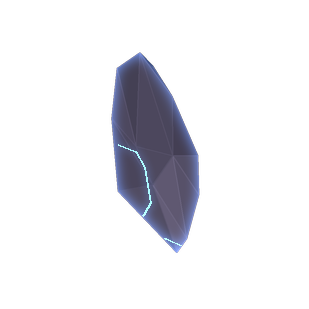
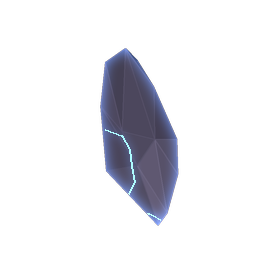
Main menu shrine: smaller and to the right (clear of the title and the party panel), a soft light shaft instead of a hard beam
Claude-Session: https://claude.ai/code/session_01XygewZTgx3ZFWTg4ffda8j

diff --git a/src/Hud.cpp b/src/Hud.cpp
@@ -1554,7 +1554,7 @@ float4 main(float4 pos : SV_POSITION, float4 col : COLOR0, float2 uv : TEXCOORD0
 			if (g_sGround) {
 				// THE SHRINE (Noah's picture): a round rune floor on a dark plain, a blue crystal turning and pulsing over
 				// it, broken rocks floating round it. All of it at one depth of the parallax, in the painting's pixels.
-				constexpr float kD = 0.6f, kCX = 1060.0f, kCY = 1185.0f, kS = 3.9f, kCos = 0.9563f, kSin = 0.2924f, kCrystalZ = 130.0f;
+				constexpr float kD = 0.6f, kCX = 1160.0f, kCY = 1190.0f, kS = 3.4f, kCos = 0.9563f, kSin = 0.2924f, kCrystalZ = 130.0f;
 				const float u = (cw * (1.04f + 0.03f * kD) * push) / 2560.0f;  // painting pixels -> screen
 				auto at = [&](float X, float Y, float Z) { return toScreen(kD, kCX + X * kS, kCY - (Z * kCos - Y * kSin) * kS); };
 				auto tex = [](ID3D11ShaderResourceView* t) { return ImTextureID(reinterpret_cast<std::uintptr_t>(t)); };
@@ -1578,22 +1578,22 @@ float4 main(float4 pos : SV_POSITION, float4 col : COLOR0, float2 uv : TEXCOORD0
 					fg->AddCircleFilled(p, 7.0f * u, IM_COL32(110, 190, 255, static_cast<int>(40 * front * fade)), 12);
 					fg->AddCircleFilled(p, 2.4f * u, IM_COL32(210, 240, 255, static_cast<int>(200 * front * fade)), 8);
 				}
-				// the light rising from the pool to the crystal
-				{
+				// the light rising from the pool to the crystal: a soft shaft (the round light stretched tall)
+				if (g_sSoft) {
 					const ImVec2 pool = at(0, 0, 0), top = at(0, 0, kCrystalZ);
-					const float  bw = (34 + 8 * pulse) * u * kS;
-					fg->AddRectFilledMultiColor({ pool.x - bw, top.y }, { pool.x + bw, pool.y }, IM_COL32(120, 200, 255, 0), IM_COL32(120, 200, 255, 0),
-						IM_COL32(120, 200, 255, static_cast<int>((40 + 30 * pulse) * fade)), IM_COL32(120, 200, 255, static_cast<int>((40 + 30 * pulse) * fade)));
-					fg->AddRectFilledMultiColor({ pool.x - bw * 0.35f, top.y }, { pool.x + bw * 0.35f, pool.y }, IM_COL32(200, 235, 255, static_cast<int>(30 * fade)), IM_COL32(200, 235, 255, static_cast<int>(30 * fade)),
-						IM_COL32(200, 235, 255, static_cast<int>((70 + 50 * pulse) * fade)), IM_COL32(200, 235, 255, static_cast<int>((70 + 50 * pulse) * fade)));
+					const ImVec2 mid{ pool.x, (pool.y + top.y) * 0.5f };
+					const float  len = (pool.y - top.y) * 1.25f, bw = (70 + 16 * pulse) * u * kS;
+					sprite(g_sSoft, mid, bw * 2.0f, len, 0, IM_COL32(110, 190, 255, static_cast<int>((70 + 40 * pulse) * fade)));
+					sprite(g_sSoft, mid, bw * 0.7f, len, 0, IM_COL32(210, 240, 255, static_cast<int>((80 + 60 * pulse) * fade)));
+					sprite(g_sSoft, pool, bw * 3.2f, bw * 1.0f, 0, IM_COL32(120, 200, 255, static_cast<int>((90 + 60 * pulse) * fade)));  // the pool's glow on the floor
 				}
 				// the rocks: each on its own orbit round the crystal, bobbing and slowly tumbling; the far ones behind it
 				struct Rock { float r, a0, z, speed, bob, ph, rot0, spin; };
 				static constexpr Rock kRocks[9] = { { 112, 0.0f, 150, 0.16f, 9, 0.0f, 0.3f, 0.10f }, { 120, 0.7f, 110, 0.16f, 11, 1.3f, -0.4f, -0.08f },
-					{ 104, 1.4f, 175, 0.16f, 8, 2.1f, 0.9f, 0.12f }, { 124, 2.1f, 125, 0.16f, 12, 0.7f, -0.8f, 0.07f }, { 110, 2.8f, 95, 0.16f, 10, 2.9f, 0.2f, -0.11f },
-					{ 116, 3.5f, 160, 0.16f, 9, 1.8f, 1.1f, 0.09f }, { 106, 4.2f, 120, 0.16f, 11, 0.4f, -0.2f, -0.06f }, { 92, 4.9f, 185, 0.16f, 7, 2.5f, 0.6f, 0.14f },
+					{ 104, 1.4f, 160, 0.16f, 8, 2.1f, 0.9f, 0.12f }, { 124, 2.1f, 125, 0.16f, 12, 0.7f, -0.8f, 0.07f }, { 110, 2.8f, 95, 0.16f, 10, 2.9f, 0.2f, -0.11f },
+					{ 116, 3.5f, 150, 0.16f, 9, 1.8f, 1.1f, 0.09f }, { 106, 4.2f, 120, 0.16f, 11, 0.4f, -0.2f, -0.06f }, { 92, 4.9f, 165, 0.16f, 7, 2.5f, 0.6f, 0.14f },
 					{ 98, 5.6f, 90, 0.16f, 10, 1.1f, -1.0f, -0.13f } };
-				static constexpr float kRockPx[9] = { 420, 468, 387, 485, 436, 413, 394, 309, 342 };
+				static constexpr float kRockPx[9] = { 375, 418, 346, 432, 389, 369, 351, 277, 306 };
 				struct Placed { int i; ImVec2 p; float depth, scale; };
 				std::array<Placed, 9> placed{};
 				for (int i = 0; i < 9; ++i) {

diff --git a/tools/menushrine.py b/tools/menushrine.py
@@ -21,8 +21,8 @@ from scipy.spatial import ConvexHull
 OUT = pathlib.Path(sys.argv[1] if len(sys.argv) > 1 else 'menushrine')
 OUT.mkdir(parents=True, exist_ok=True)
 W, H = 2560, 1440
-CX, CY = 1060.0, 1185.0          # the floor's centre on the painting
-S = 3.9                          # painting pixels per game unit
+CX, CY = 1160.0, 1190.0          # the floor's centre on the painting
+S = 3.4                          # painting pixels per game unit
 E = math.radians(17)             # how far we look down
 HORIZON = 800
 CRYSTAL_Z = 130.0
@@ -252,7 +252,7 @@ def crystal_sheet(frames=24, fw=448, fh=640):
         out = np.zeros((len(t), 4))
         out[:, :3] = np.clip(col[:, :3] + 60, 0, 255)
         out[:, 3] = 255
-        im = render(t, col, (fw, fh), 6.0, (fw / 2, fh * 0.56), outline=out)
+        im = render(t, col, (fw, fh), 5.3, (fw / 2, fh * 0.56), outline=out)
         # light inside it: a soft core
         a = np.asarray(im, np.float32)
         core = maskdraw(lambda d: d.ellipse([fw / 2 - 44, fh * 0.56 - 100, fw / 2 + 44, fh * 0.56 + 66], fill=255), fw, fh)
@@ -302,7 +302,7 @@ def shards():
         col[:, 2] = (40 + 100 * lam ** 1.3) * jit
         col[:, 3] = 255
         out_ = np.clip(col * 1.12, 0, 255)
-        SH = 2.6  # the rocks' scale on the painting
+        SH = 2.3  # the rocks' scale on the painting
         size = int(L * SH * 1.25) + 30
         im = render(t, col, (size, size), SH, (size / 2, size / 2), outline=out_)
         a = np.asarray(im, np.float32)
